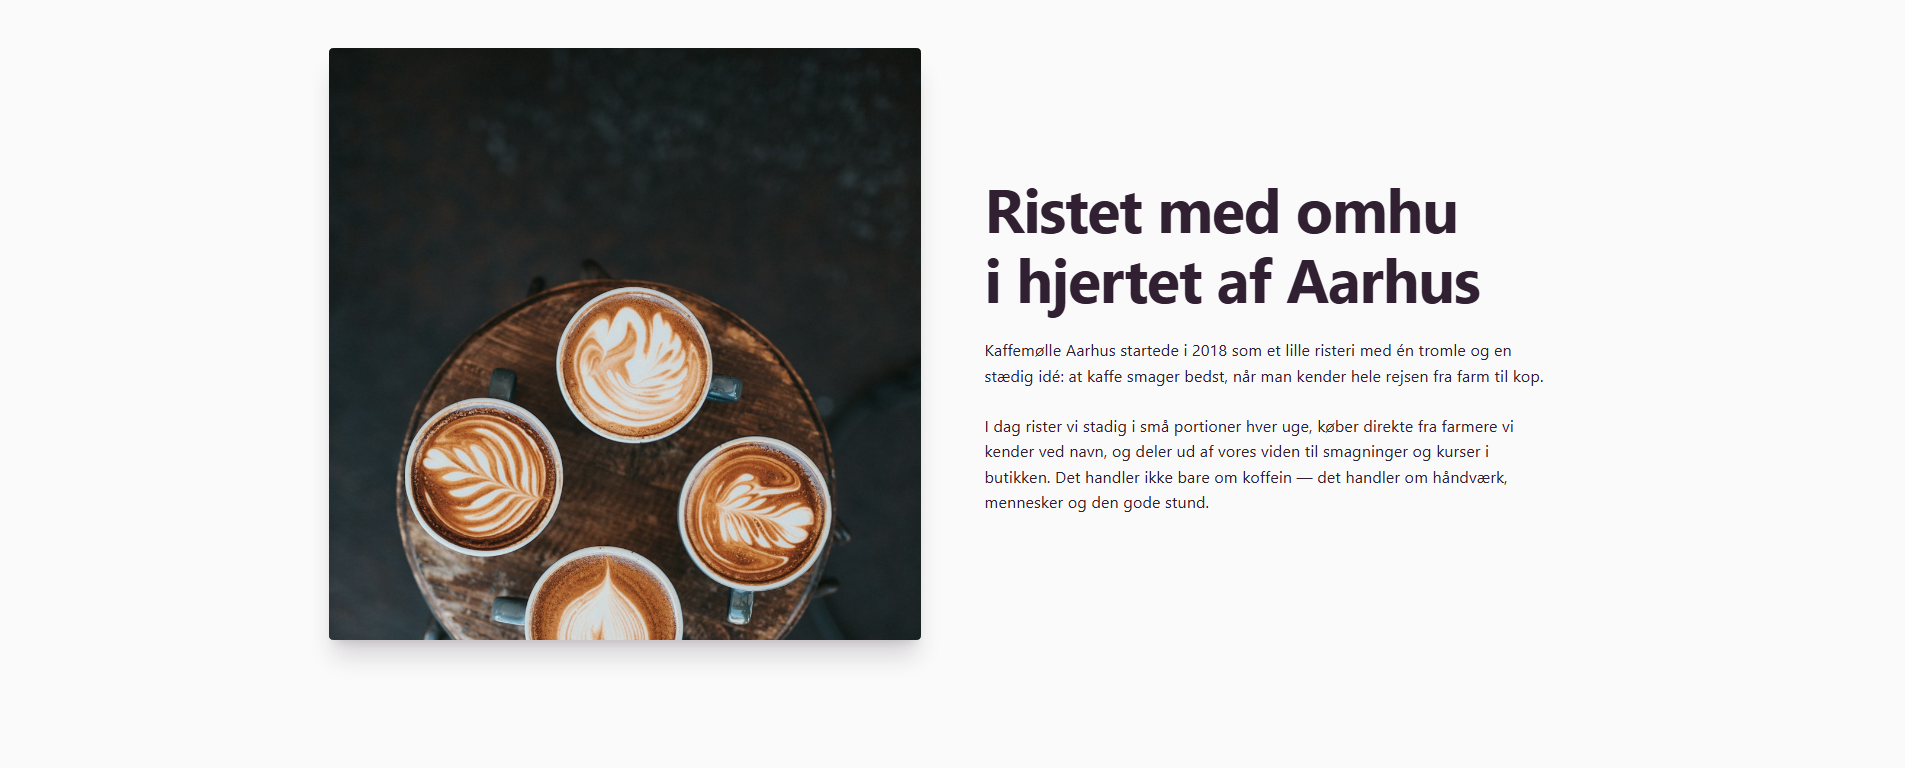
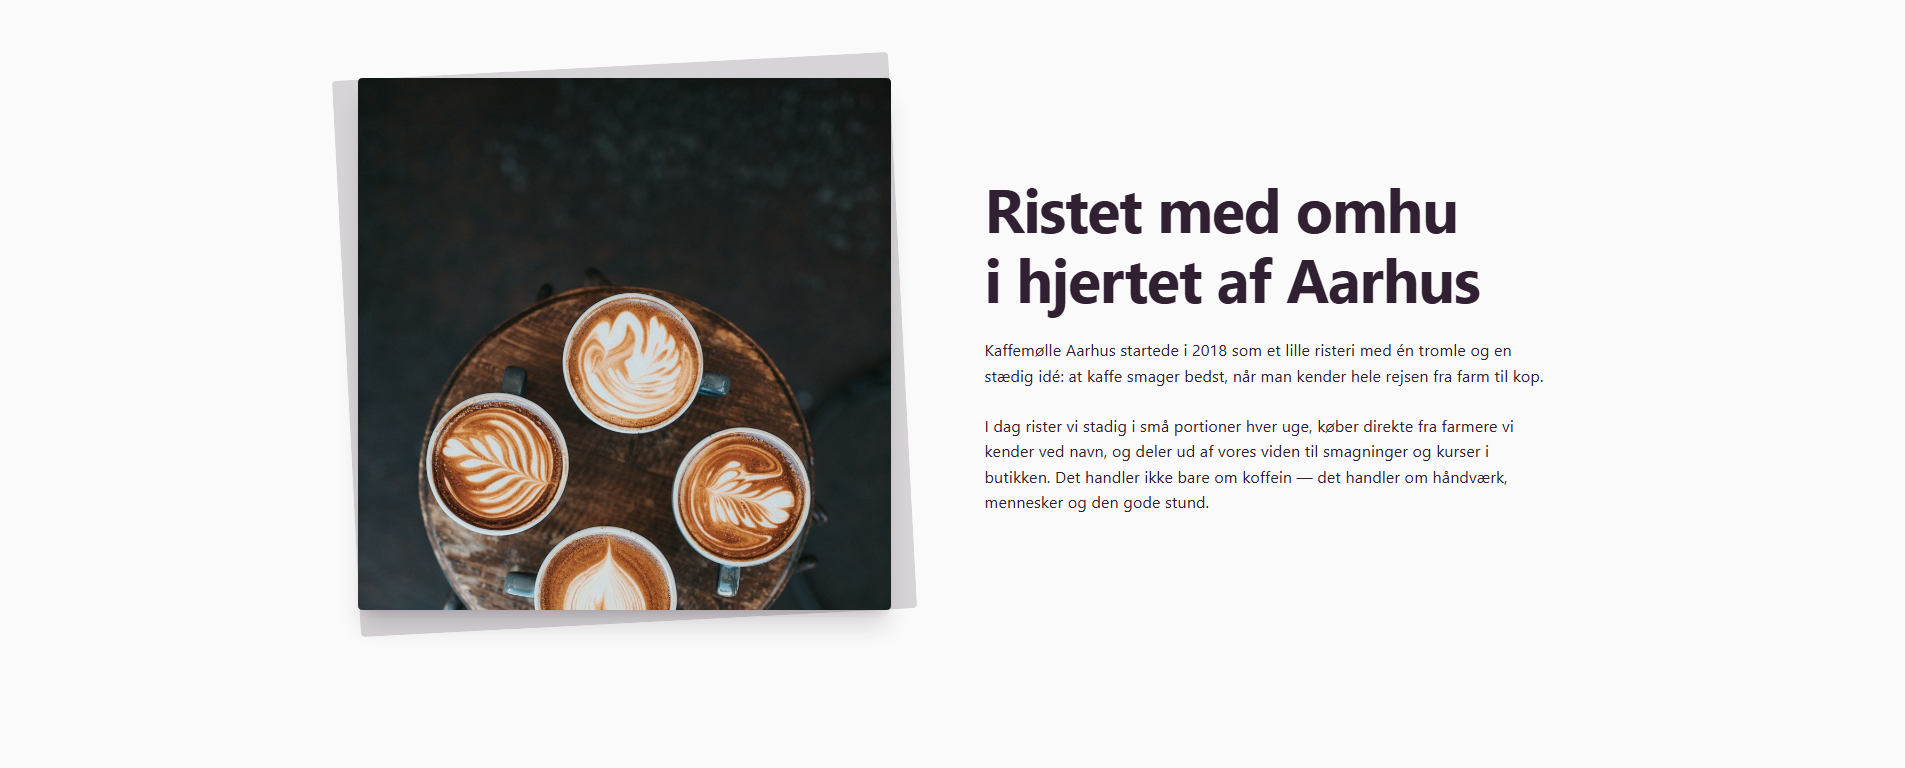
backdrop

Changed region(s): [[0.1549, 0.0625, 0.4955, 0.875]]

diff --git a/src/components/hero/parts/HeroAboutLayout.tsx b/src/components/hero/parts/HeroAboutLayout.tsx
@@ -2,7 +2,10 @@ import { isFilled, type Content } from "@prismicio/client";
 
 import { EviSection } from "@/src/components/layout/EviSection";
 import { EviSplit } from "@/src/components/layout/EviSplit";
-import { EviImage } from "@/src/components/ui/EviImage";
+import {
+  EviBackdropImage,
+  BACKDROP_FROM_LABEL,
+} from "@/src/components/ui/EviBackdropImage";
 import { EviHeadingGroup } from "@/src/components/typography/EviHeadingGroup";
 import {
   resolve_slice_context,
@@ -48,6 +51,7 @@ export function HeroAboutLayout({
 
   const imageLeftOnDesktop = p.image_side !== "Højre";
   const imageTopOnMobile = p.mobile_order !== "Tekst øverst";
+  const backdrop = BACKDROP_FROM_LABEL[p.backdrop ?? "Roteret"] ?? "rotated";
 
   const contentEl = (
     <EviHeadingGroup
@@ -58,14 +62,11 @@ export function HeroAboutLayout({
     />
   );
   const imageEl = (
-    <EviImage
+    <EviBackdropImage
       field={p.image}
-      aspectRatio="square"
-      variant="plain"
-      imageClassName="object-cover"
+      backdrop={backdrop}
+      color={p.backdrop_color}
       priority={isHero}
-      sizes="(min-width: 768px) 45vw, 92vw"
-      className="shadow-evi rounded-evi"
     />
   );
 

diff --git a/prismicio-types.d.ts b/prismicio-types.d.ts
@@ -1071,6 +1071,28 @@ export interface HeroSliceAboutPrimary {
 	image: prismic.ImageField<never>;
 	
 	/**
+	 * Backdrop bag billede field in *Hero → About → Primary*
+	 *
+	 * - **Field Type**: Select
+	 * - **Placeholder**: *None*
+	 * - **Default Value**: Roteret
+	 * - **API ID Path**: hero.about.primary.backdrop
+	 * - **Documentation**: https://prismic.io/docs/fields/select
+	 */
+	backdrop: prismic.SelectField<"Ingen" | "Roteret", "filled">;
+	
+	/**
+	 * Backdrop-farve field in *Hero → About → Primary*
+	 *
+	 * - **Field Type**: Select
+	 * - **Placeholder**: *None*
+	 * - **Default Value**: Sekundær
+	 * - **API ID Path**: hero.about.primary.backdrop_color
+	 * - **Documentation**: https://prismic.io/docs/fields/select
+	 */
+	backdrop_color: prismic.SelectField<"Sekundær" | "Primær" | "Neutral", "filled">;
+	
+	/**
 	 * Billedets side (desktop) field in *Hero → About → Primary*
 	 *
 	 * - **Field Type**: Select

diff --git a/slices/Hero/mock.ts b/slices/Hero/mock.ts
@@ -150,6 +150,8 @@ export const mock: Record<string, Content.HeroSlice> = {
         dimensions: { width: 1000, height: 1000 },
         edit: { x: 0, y: 0, zoom: 1, background: "transparent" },
       } as Content.HeroSliceAboutPrimary["image"],
+      backdrop: "Roteret",
+      backdrop_color: "Sekundær",
       image_side: "Venstre",
       mobile_order: "Billede øverst",
       background_theme: "Lys",
